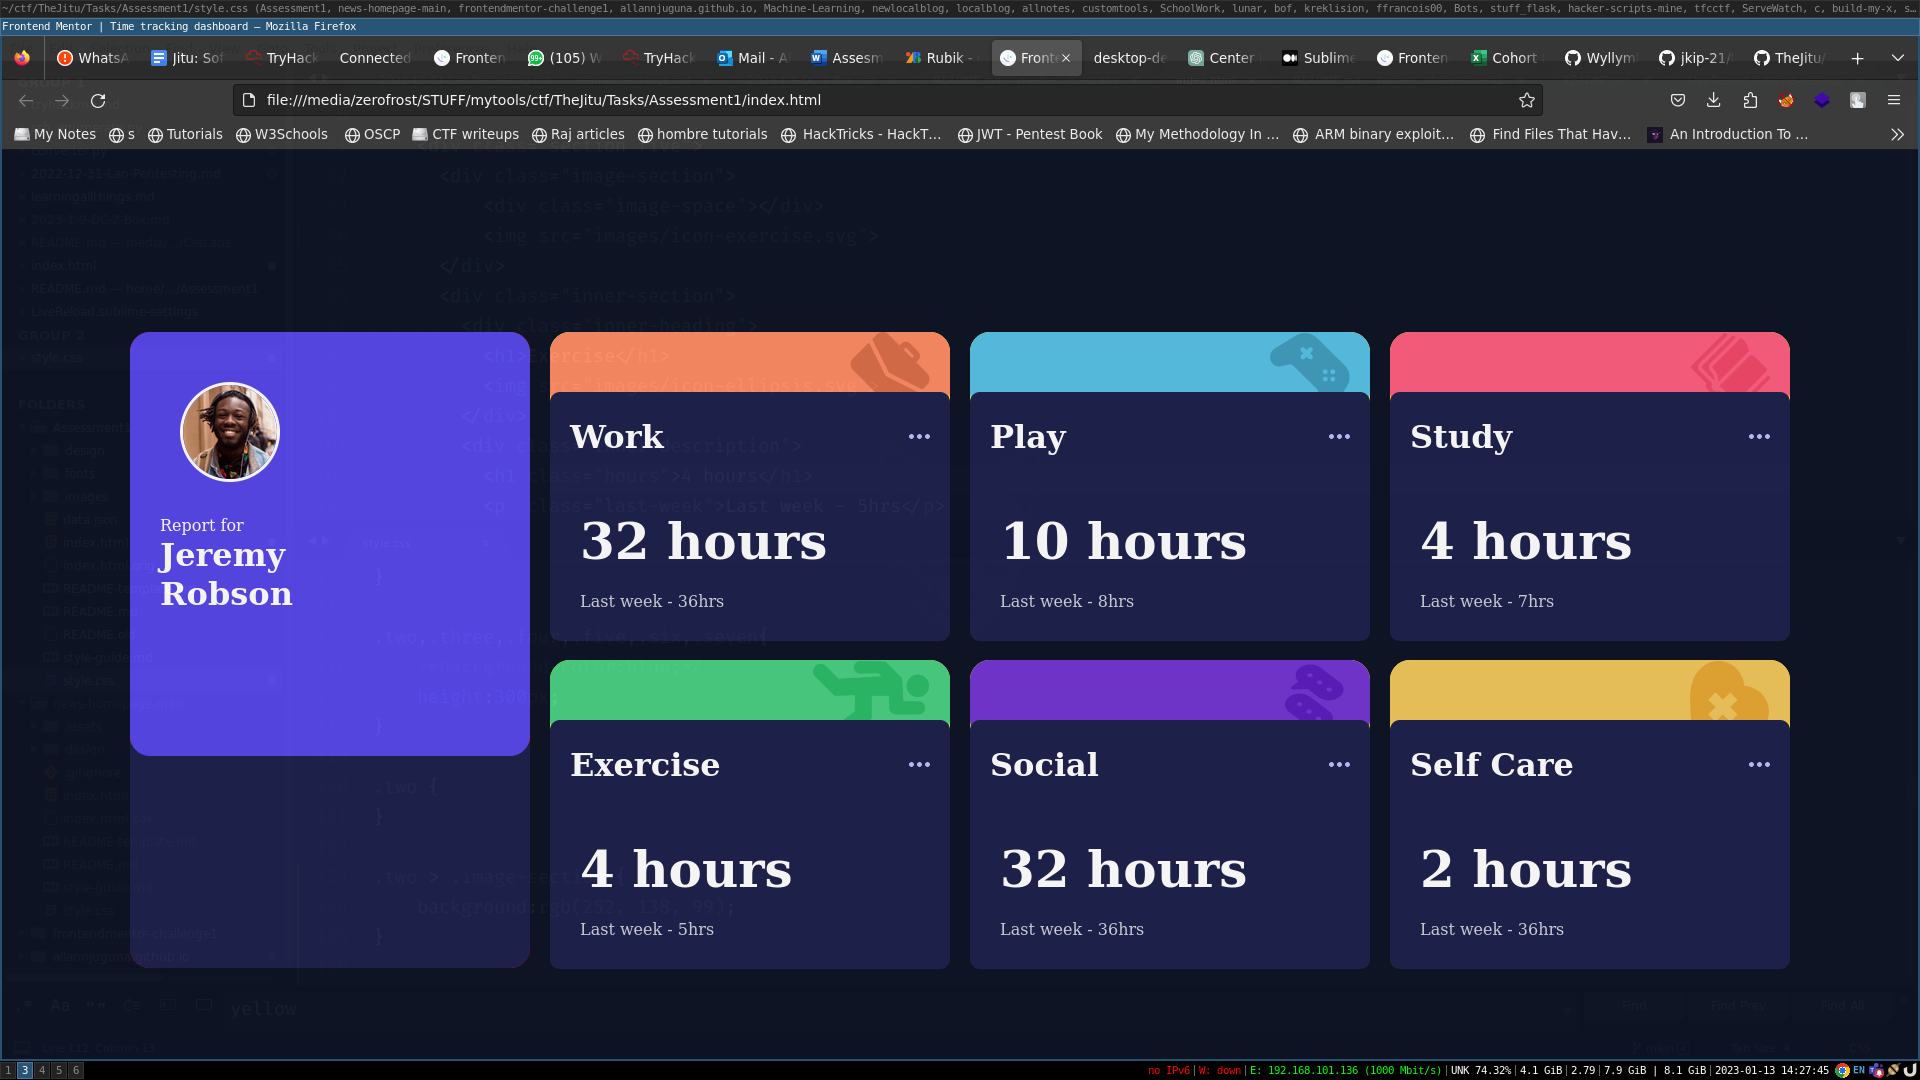
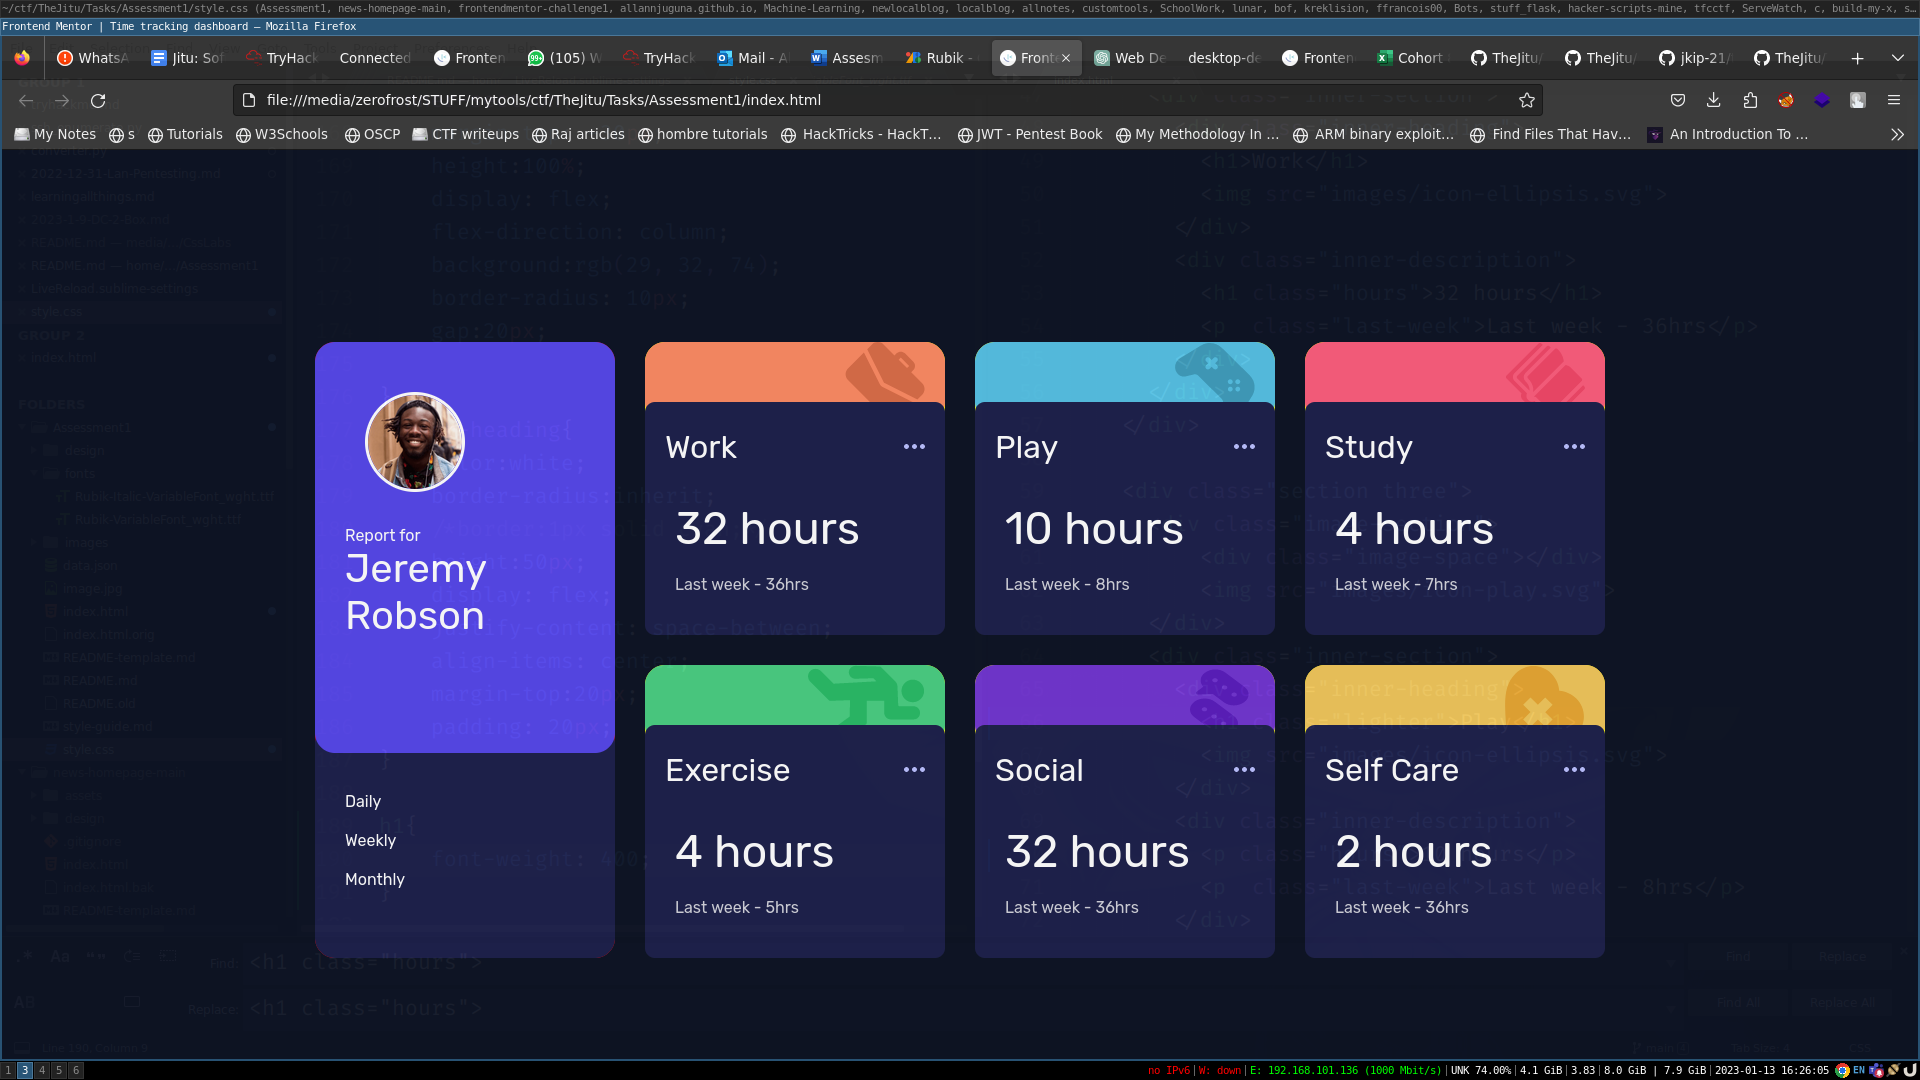
Final draft

Changed region(s): [[0.0625, 0.3056, 0.9375, 0.9167], [0.5625, 0.0306, 0.8438, 0.0611]]

diff --git a/Tasks/Assessment1/style.css b/Tasks/Assessment1/style.css
@@ -1,28 +1,17 @@
+
+@font-face{
+  font-family: "Rubik";
+  src: url(./fonts/Rubik-VariableFont_wght.ttf);
+}
+
 * {
 	margin:0;
 	padding:0;
 	box-sizing: border-box;
 	color:white;
+	font-family: "Rubik";
+
 }
-
-
-@font-face{
-  font-family: "Rubik";
-  src: url(./fonts/Rubik-Italic-VariableFont_wght.ttf);
-}
-
-
-@font-face{
-  font-family: "RubikBold";
-  src: url(./fonts/Rubik-Italic-VariableFont_wght.ttf);
-}
-
-/*@font-face{
-  font-family: "InterBold";
-  src: url(./assets/fonts/static/Inter-ExtraBold.ttf);
-}*/
-
-
 
 body {
 	background: rgb(13, 19, 35);
@@ -43,7 +32,7 @@ body {
 
 
 .grid-container{
-	width: 80z%;
+	width: 100%;
 	height:70vh;
 	margin-top:20vh;
 	/*margin: 10vh auto;*/
@@ -54,12 +43,13 @@ body {
 	'one two three four'
 	'one five six seven'
 	;
-	gap:20px;
+	gap:10px;
 }
 
 .section {
-	min-height:40px;
-	width:400px;
+	margin: 10px;
+	/*min-height:40px;*/
+	width:300px;
 	border-radius: 20px;
 	background:yellow;
 	display: flex;
@@ -74,7 +64,7 @@ body {
 	display: flex;
 	flex-direction: column;
 	background: red;
-	max-height:100%;
+	/*max-height:100%;*/
 	/*gap:20px;*/
 }
 .profile-grid,.period-grid{
@@ -92,6 +82,15 @@ body {
 	margin-top:-40px;
 	background:rgb(29, 32, 74);
 	height: 40%;
+	display: flex;
+	flex-direction: column;
+	justify-content: center;
+	align-items: flex-start;
+	gap:20px;
+}
+
+.period-grid {
+	padding-left:30px;
 }
 
 
@@ -112,9 +111,11 @@ body {
 	padding:30px;
 }
 
+
 .two,.three,.four,.five,.six,.seven{
 	/*background-color:blue;*/
-	height:300px;
+	/*width:200px;*/
+	/*height:300px;*/
 }
 
 .two {
@@ -185,16 +186,24 @@ body {
 	padding: 20px;
 }
 
+h1{
+	font-weight: 400;
+}
 
+.jeremy {
+	font-size: 40px;
+	font-weight: 400;
+}
 .inner-description{
 	/*border: 1px solid red;*/
-	padding:20px;
+	/*display: none;*/
+	padding-left:20px;
 	height: 100%;
 }
 
 .hours {
 	padding:10px;
-	font-size: 50px;
+	font-size: 45px;
 }
 
 .last-week{

diff --git a/Tasks/Assessment1/index.html b/Tasks/Assessment1/index.html
@@ -27,13 +27,15 @@
         </div>
         <div class="profile-name">
           <p>Report for</p>
-          <h1>Jeremy<h1>
-          <h1>Robson<h1>
+          <p class="jeremy">Jeremy<p>
+          <p class="jeremy">Robson<p>
         </div>
       </div>
 
       <div class="period-grid">
-
+          <p>Daily</p>
+          <p>Weekly</p>
+          <p>Monthly</p>
       </div>
     </div>
 
@@ -61,11 +63,11 @@
       </div>
       <div class="inner-section">
         <div class="inner-heading">
-          <h1>Play</h1>
+          <h1 class="lighter">Play</h1>
           <img src="images/icon-ellipsis.svg">
         </div>
         <div class="inner-description">
-          <h1 class="hours">10 hours</h1>
+          <p class="hours">10 hours</p>
           <p  class="last-week">Last week - 8hrs</p>
         </div>
       </div>  
